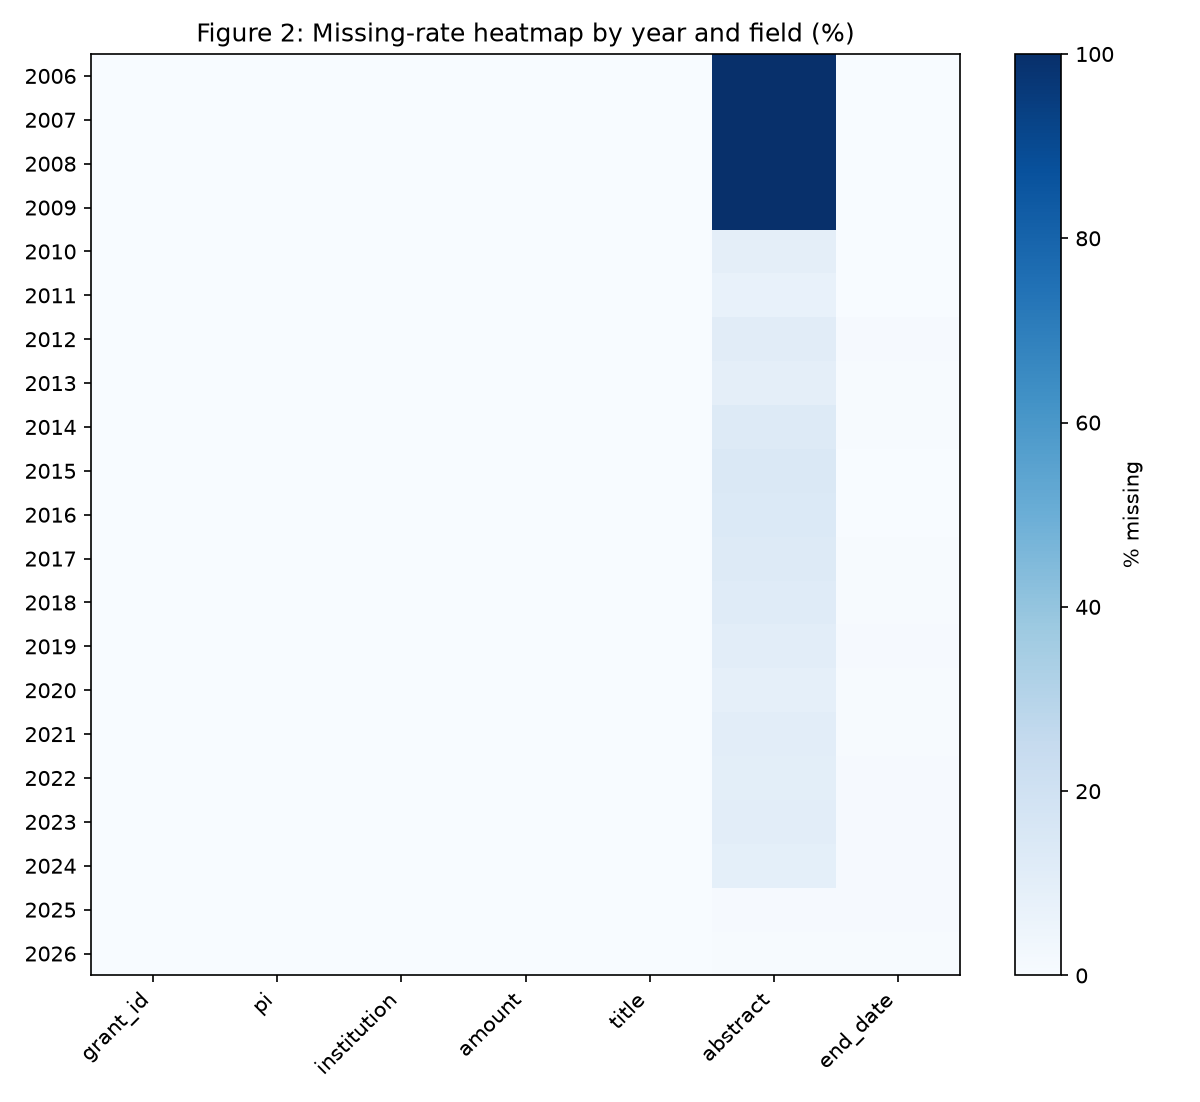
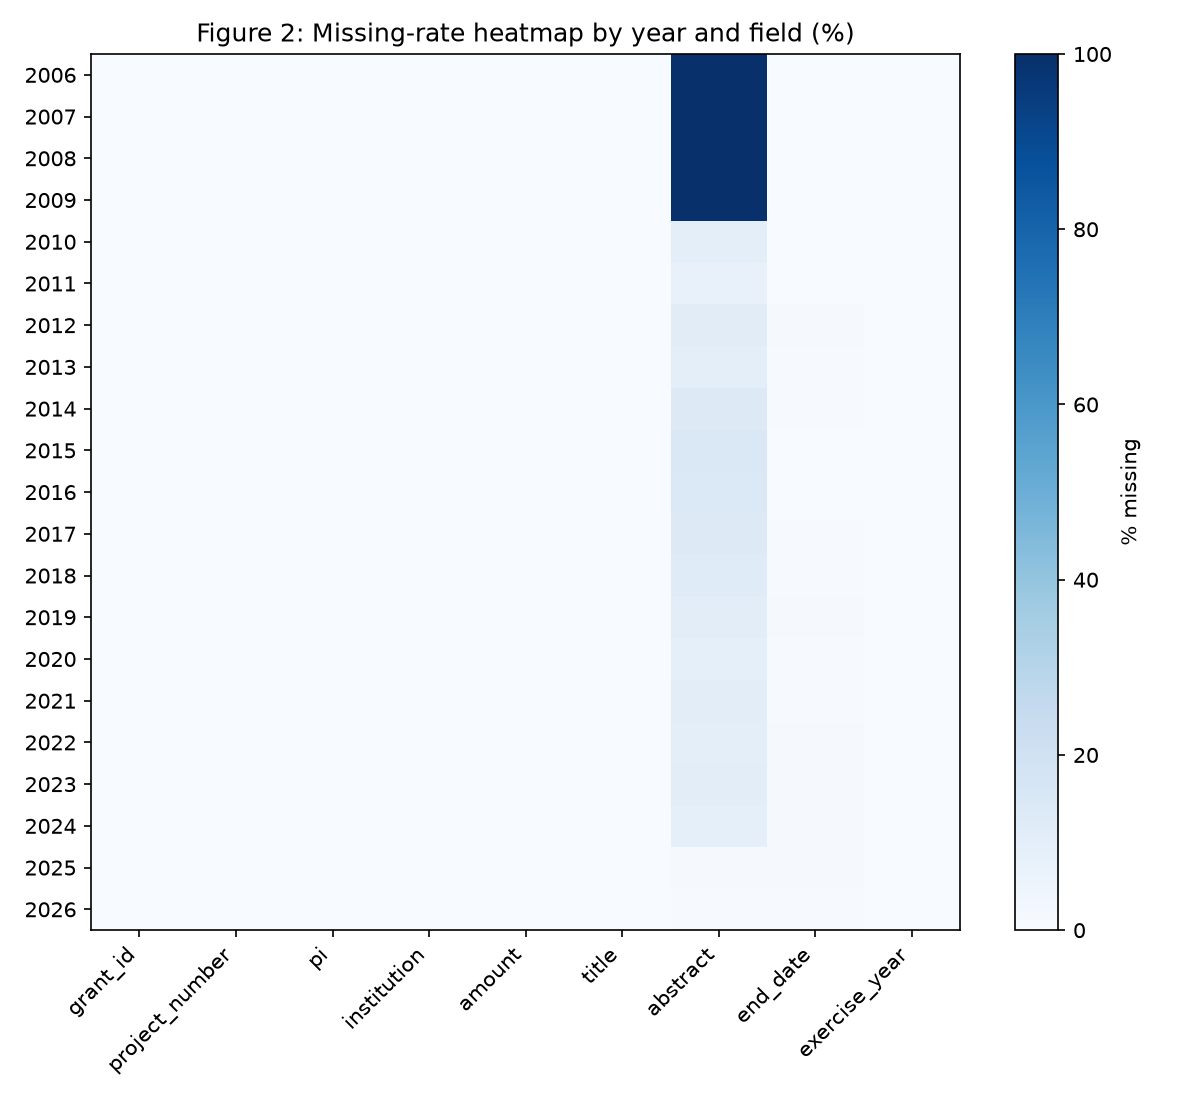
rgc: check all ID and date columns in missingness heatmap, not just one of each
Guide section 4A asks for missingness across "IDs" and "dates" (plural).
Was only checking grant_id and end_date; added project_number and
exercise_year too. Both come back 100% complete every year, so no new
issue found, but the check is now actually faithful to what was asked.

Claude-Session: https://claude.ai/code/session_01Ks4BmRcUQE58NRuDUQSFgf

diff --git a/scripts/rgc/pre_matching_checks.py b/scripts/rgc/pre_matching_checks.py
@@ -28,7 +28,8 @@ YEAR_RE = re.compile(r"(20\d{2})")
 CATEGORICAL_PALETTE = ["#2a78d6", "#eb6834", "#1baf7a", "#eda100", "#e87ba4", "#008300", "#4a3aa7", "#e34948"]
 SEQUENTIAL_CMAP = "Blues"
 
-MISSINGNESS_COLUMNS = ["grant_id", "pi", "institution", "amount", "title", "abstract", "end_date"]
+MISSINGNESS_COLUMNS = ["grant_id", "project_number", "pi", "institution", "amount", "title", "abstract",
+                        "end_date", "exercise_year"]
 ID_COLUMN = "grant_id"
 
 
